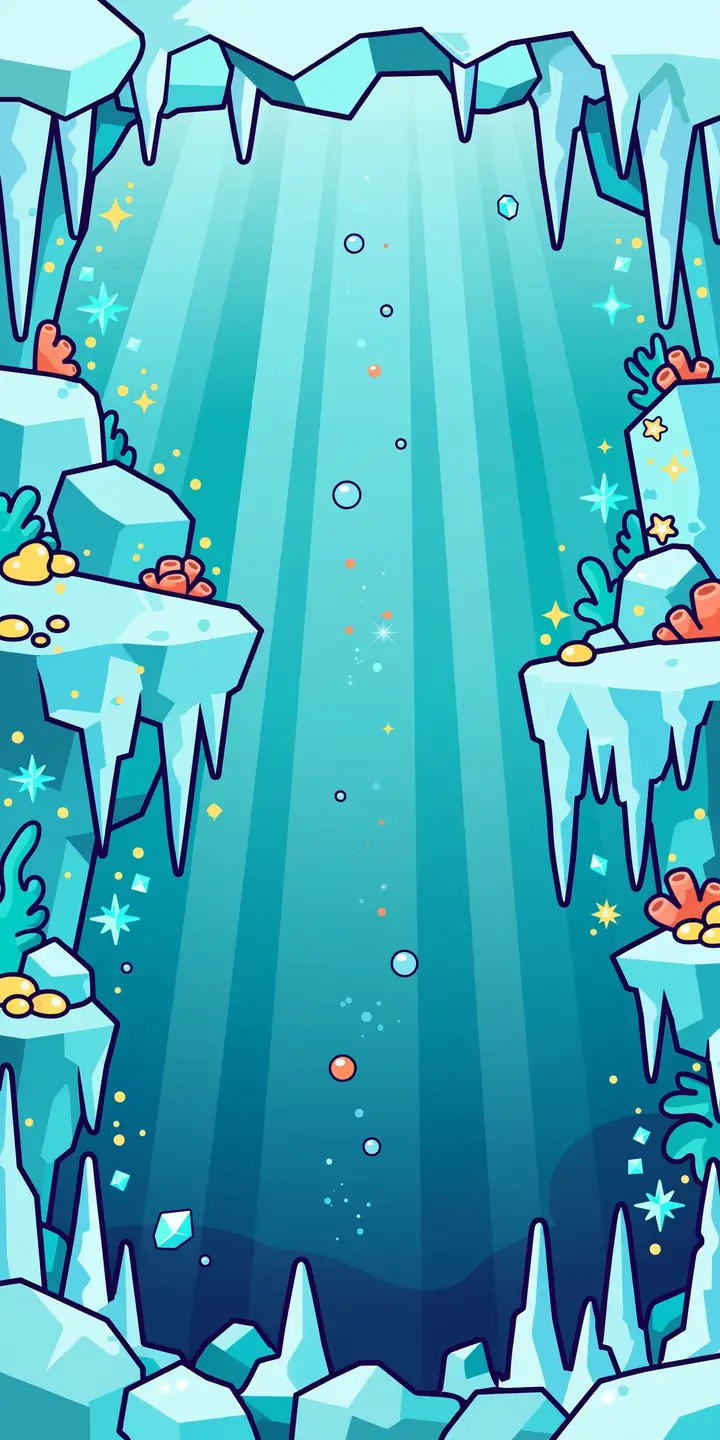
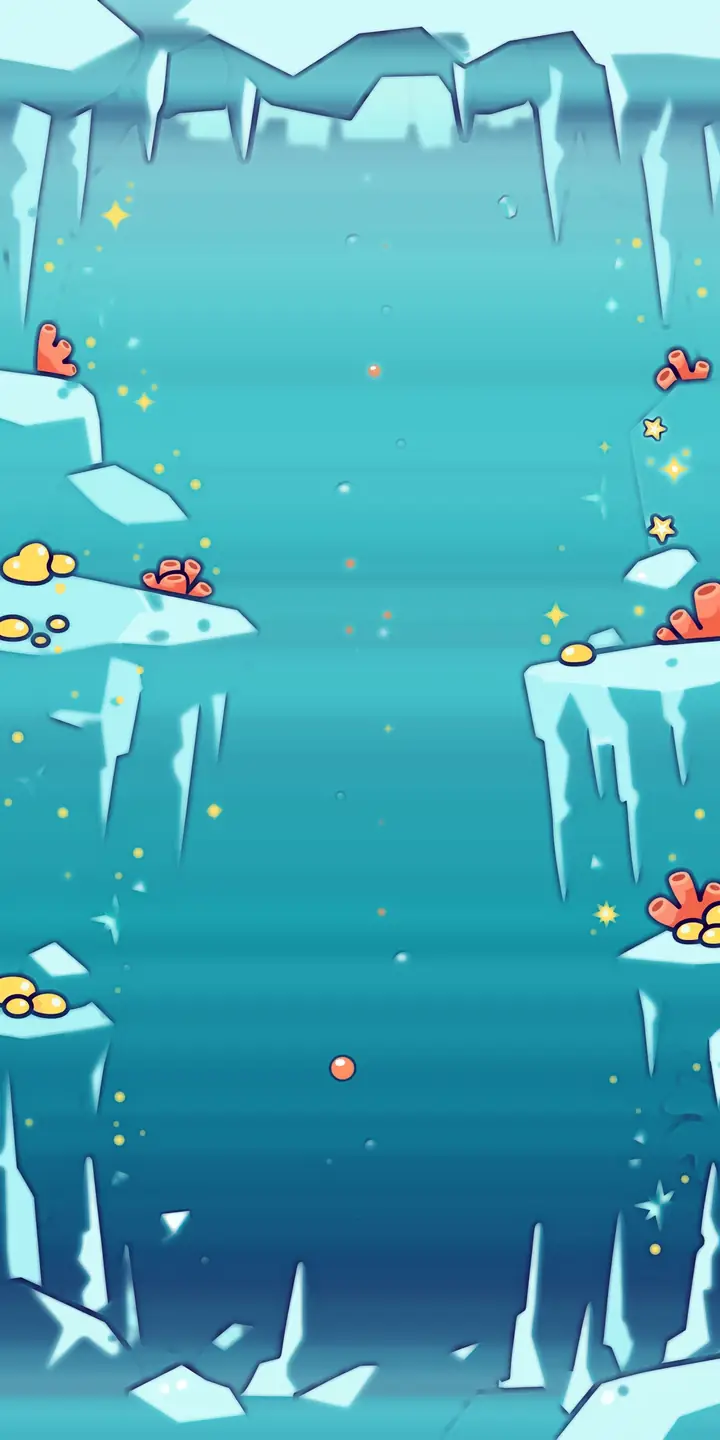
Mirror v1.2.1 from dev repo (sea backgrounds de-rayed, dock sparkle bars removed)

diff --git a/src/dock.js b/src/dock.js
@@ -63,8 +63,9 @@ function drawScene(ctx, t, night, zone, pose = 'idle') {
       ctx.beginPath(); ctx.arc(cx, y, 24 * s, 0, Math.PI * 2); ctx.arc(cx + 26 * s, y + 6, 18 * s, 0, Math.PI * 2); ctx.arc(cx - 24 * s, y + 7, 16 * s, 0, Math.PI * 2); ctx.fill();
     }
   }
-  ctx.fillStyle = 'rgba(255,255,255,0.10)';
-  for (let i = 0; i < 6; i++) { const x = (i * 97 + t * 8) % W; ctx.fillRect(x, Math.max(wy + 10, sy), 3, H); }
+  // (v1.2.1: the old code-drawn "sparkle streaks" — six 3px full-height bars from the
+  // pre-art era — read as printed vertical stripes over the painted sea art. Removed;
+  // the art already has light rays painted in.)
   // idle fish from this zone
   const pool = SPECIES.filter((s) => s.zone === zone.id && s.rarity !== 'boss' && !s.cond.length);
   for (let i = 0; i < 5; i++) {
